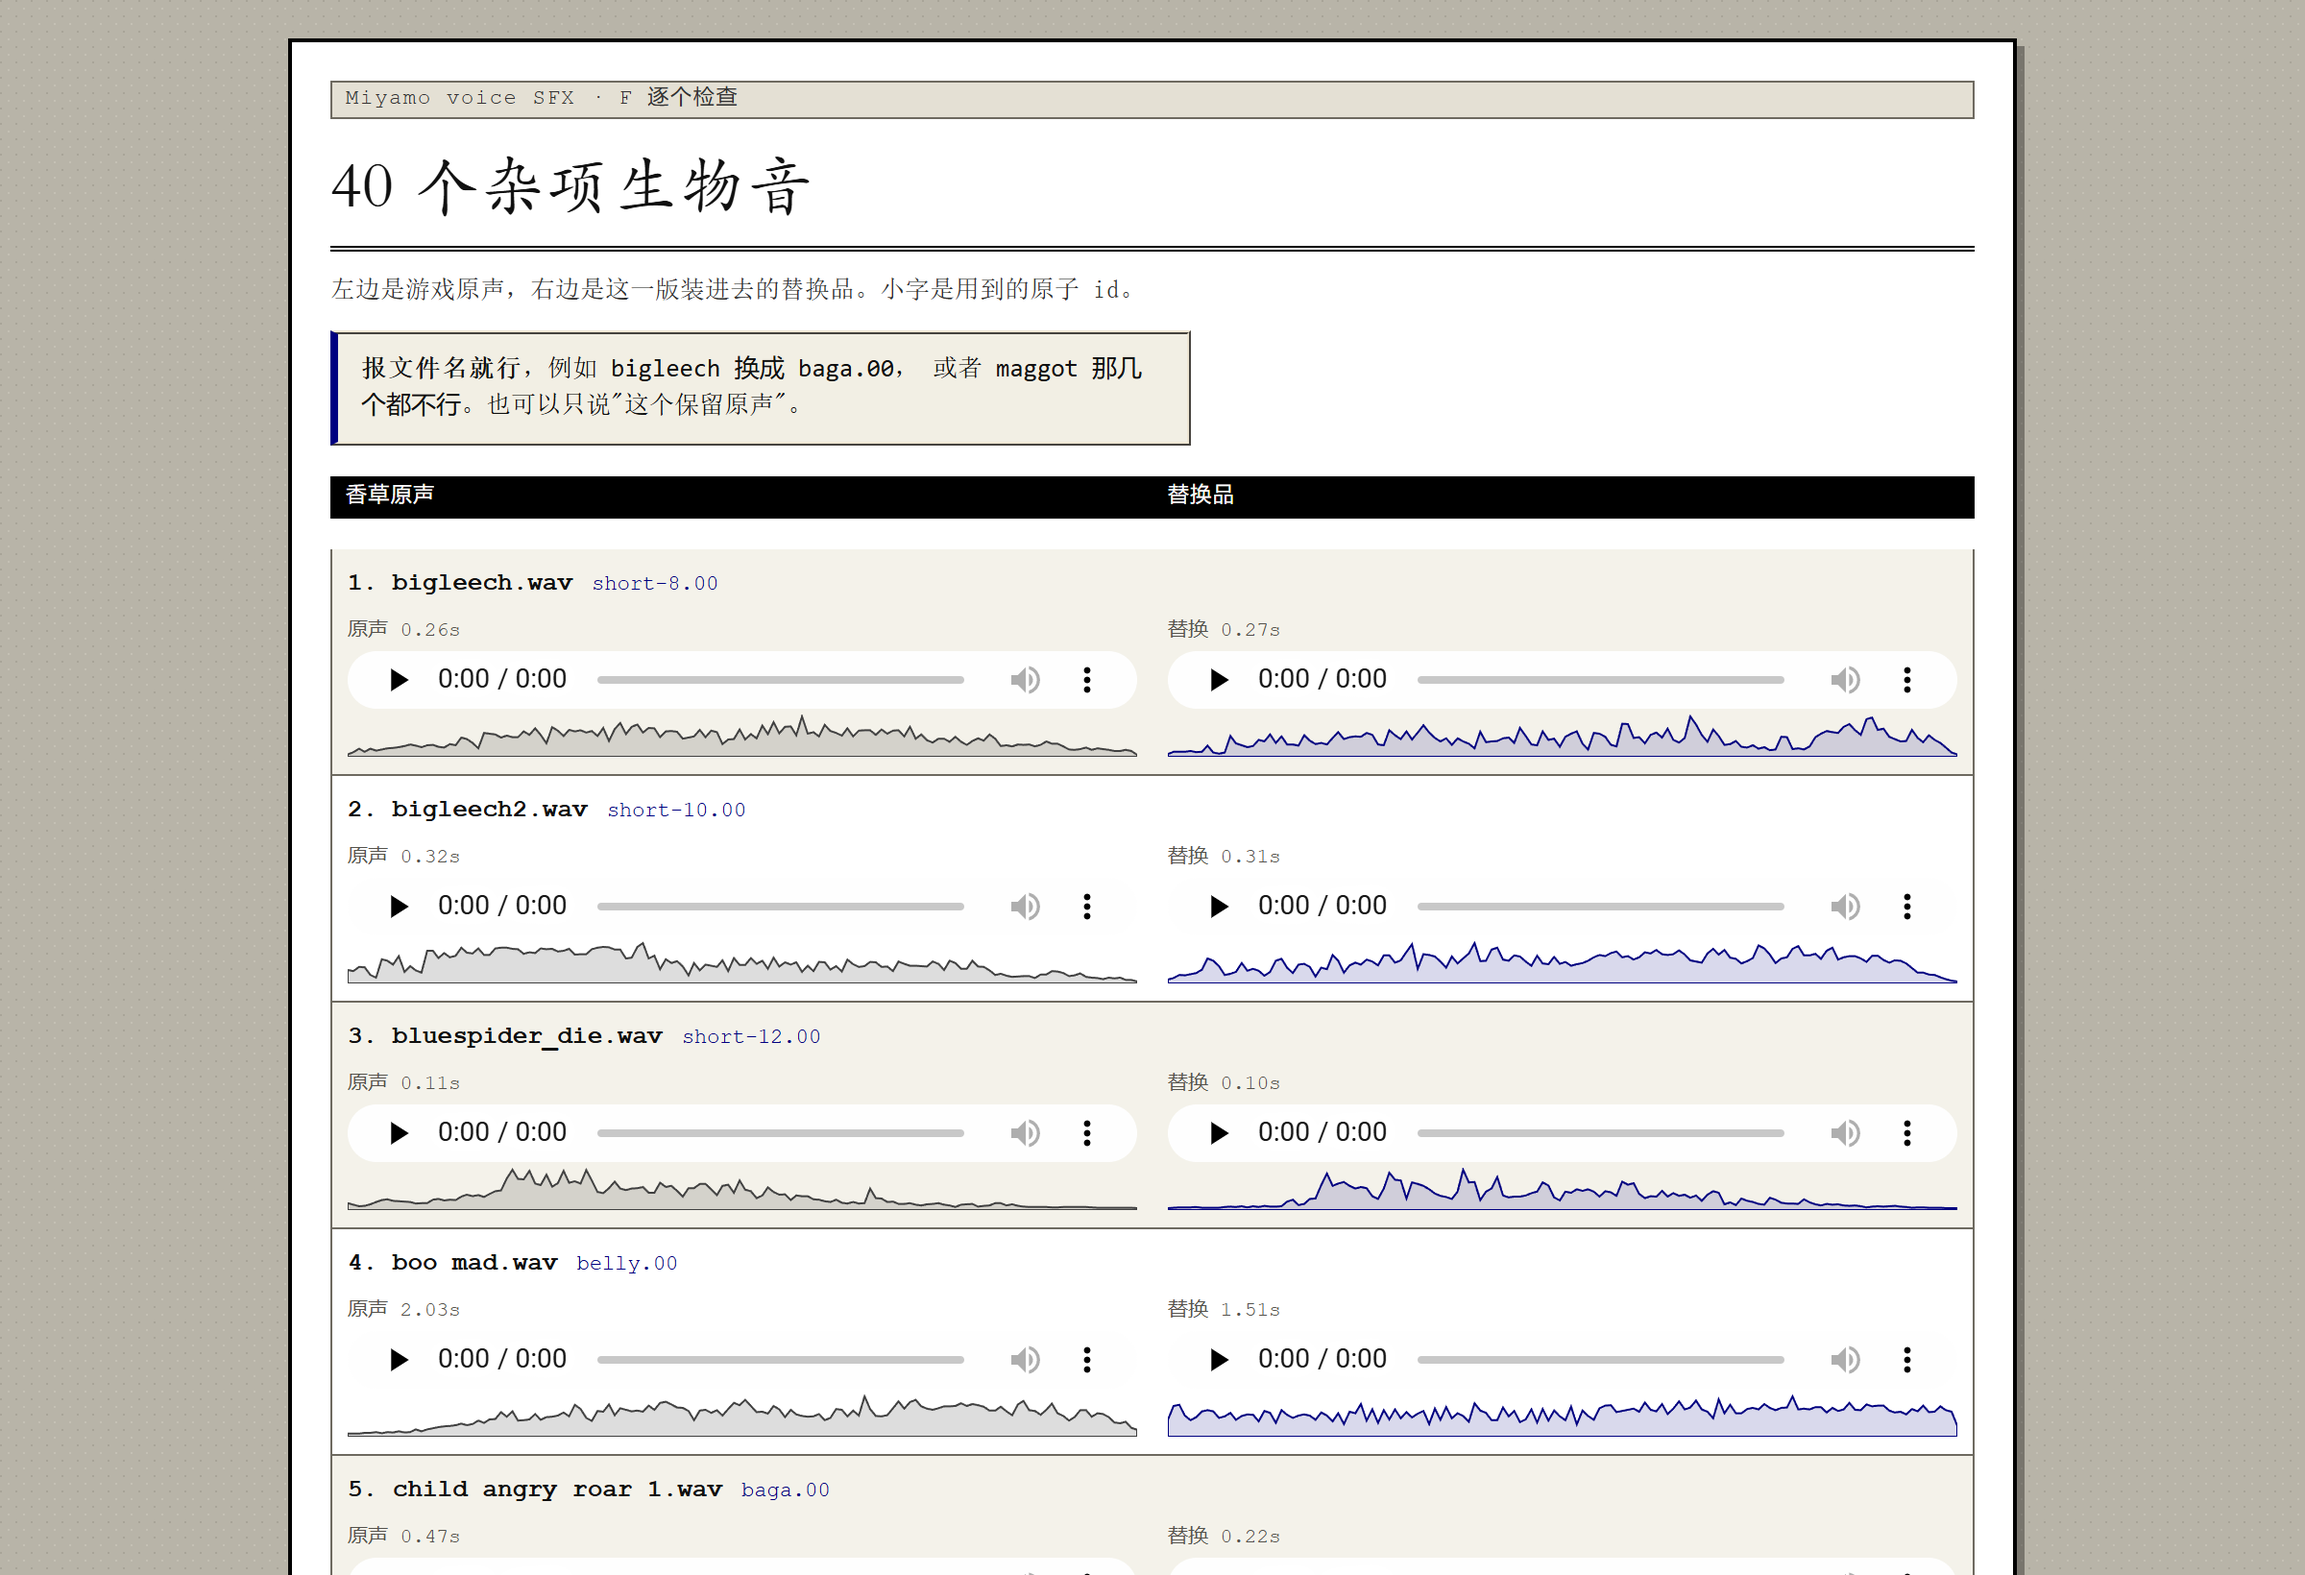
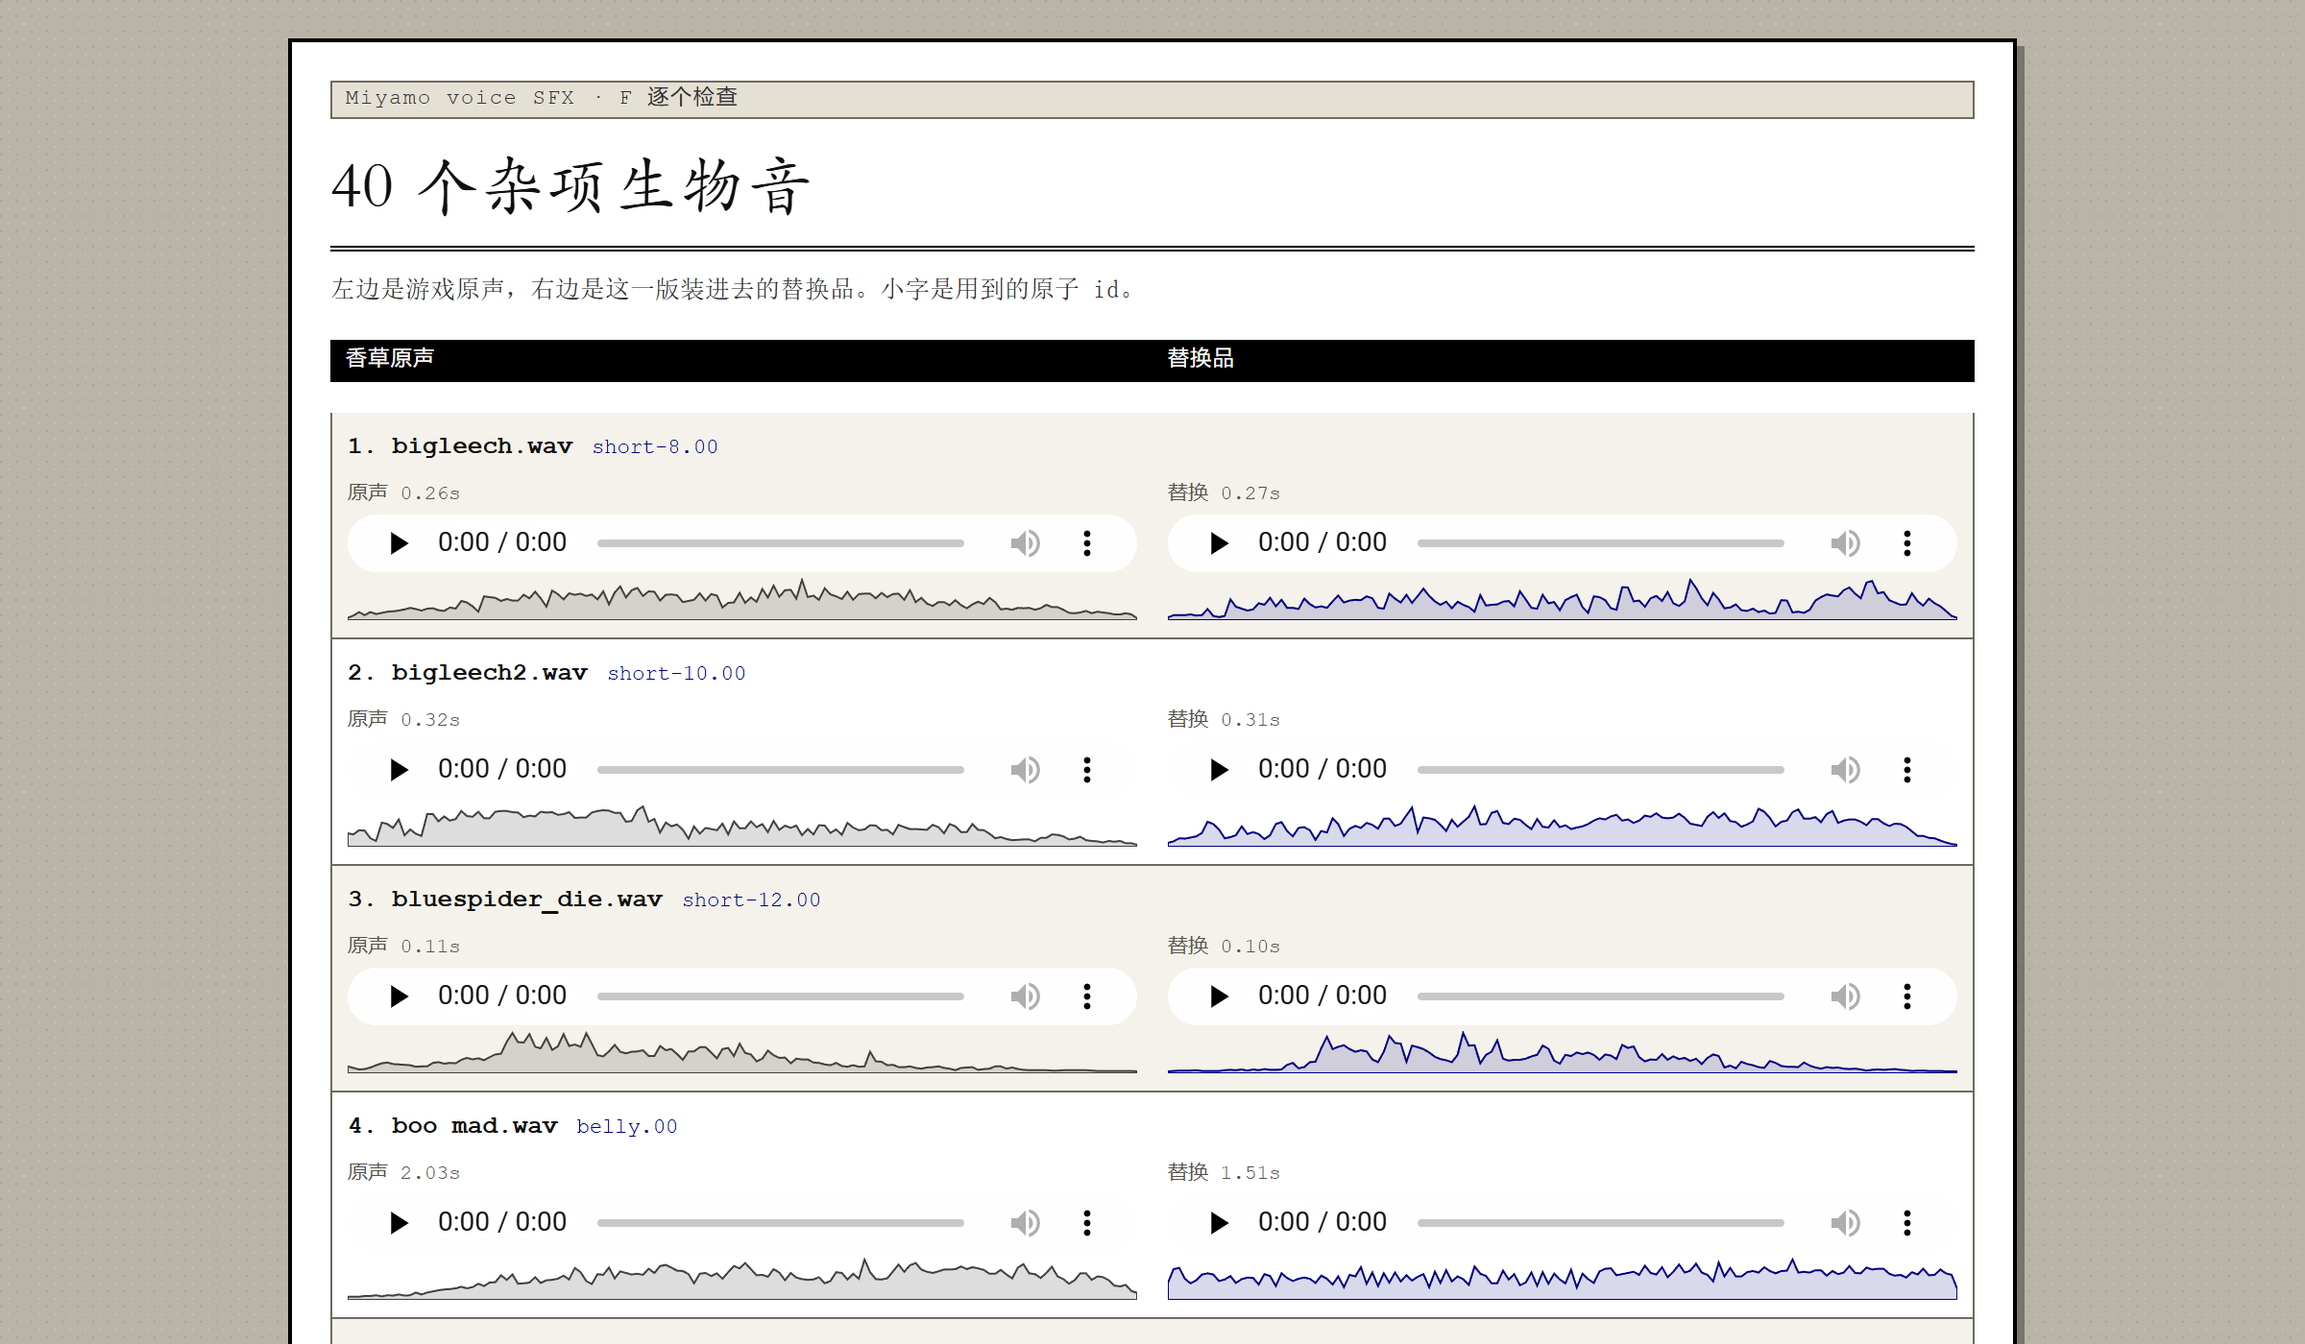
Show the mod list art in the README, and refresh the page screenshot

Changed region(s): [[0.125, 0.0, 0.875, 0.5529], [0.1562, 0.6757, 0.875, 0.9829], [0.125, 0.5221, 0.8438, 0.7064]]

diff --git a/README.md b/README.md
@@ -2,6 +2,8 @@
 
 [![tests](https://github.com/Osoito/isaac-voice-sfx-pipeline/actions/workflows/tests.yml/badge.svg)](https://github.com/Osoito/isaac-voice-sfx-pipeline/actions/workflows/tests.yml)
 
+<img src="mod/thumbnail.png" width="300" alt="Mod list art, a character crying in the basement and thinking about four figures and some bento boxes">
+
 Replaces 673 of the game's sound effects with cut-up voice clips of one character. Published on the Steam Workshop as item [3798883789](https://steamcommunity.com/sharedfiles/filedetails/?id=3798883789).
 
 43 source clips had to cover 673 slots, about 16 slots per clip. A replacement that is funny the first time becomes unbearable the twentieth. So the work here is a pipeline. It cuts the clips into usable pieces, measures what each piece sounds like, measures what each target sound demands, assigns under stated constraints, and puts real audio in front of me before anything is committed to.
